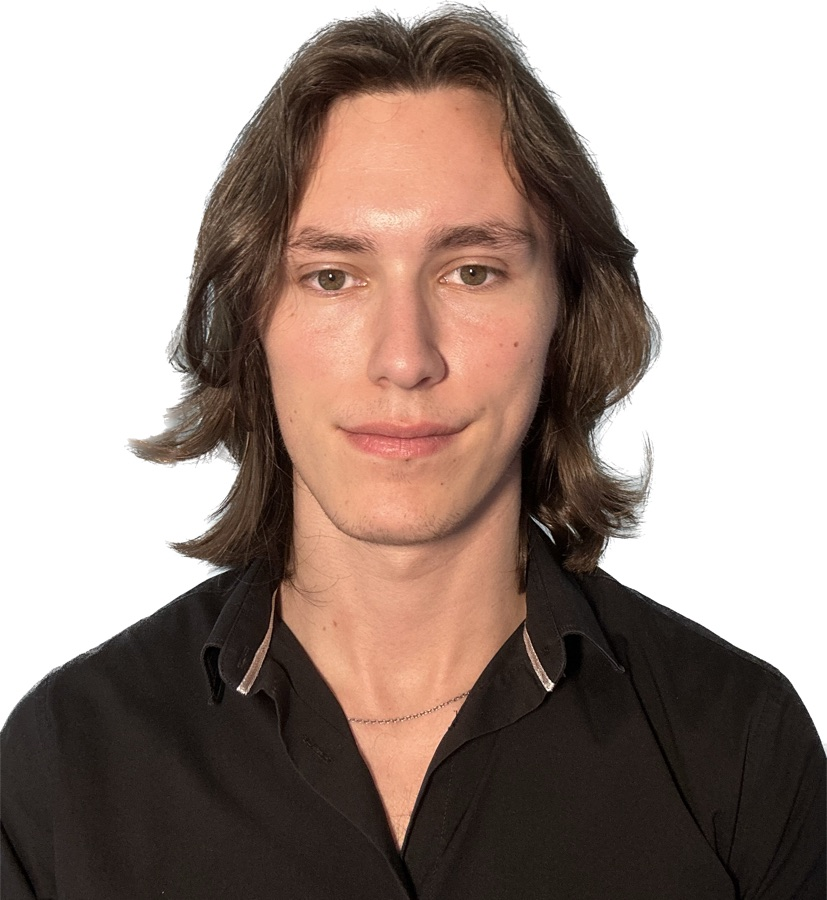
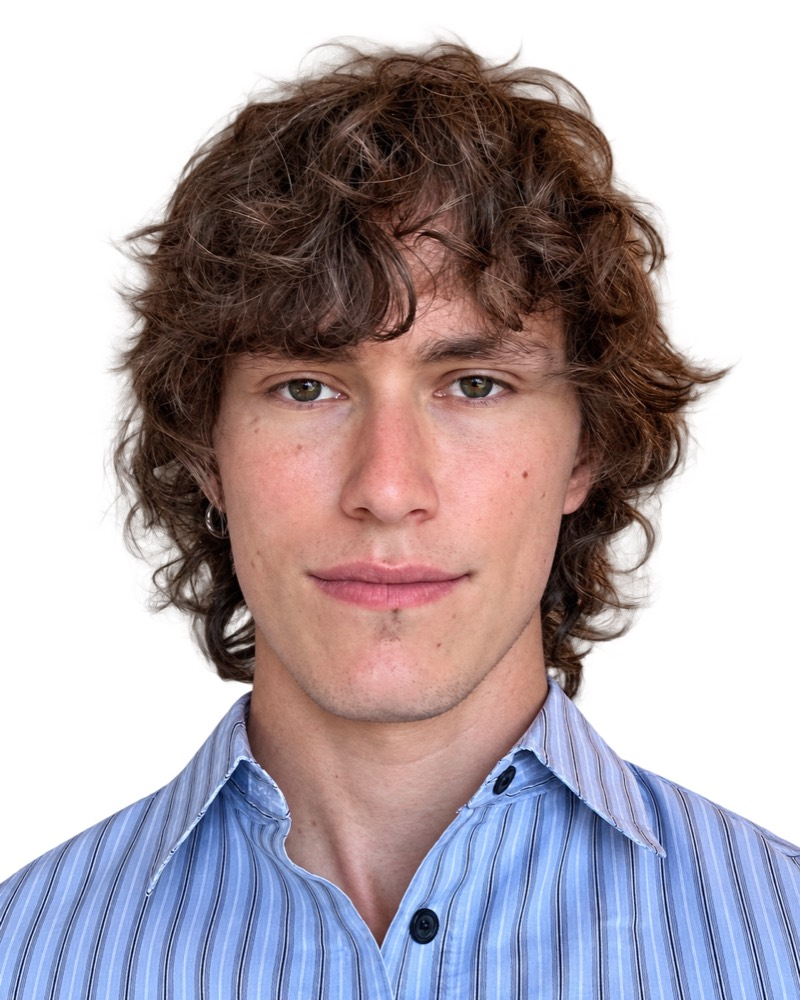
Nouveau portrait, et correction de sa deformation sur A propos
L'image d'A propos etait rendue en 123 sur 1020 pixels pour un fichier de
794 sur 900, soit sept fois trop haute. La feuille de style ne fixait que
la largeur : sans hauteur declaree, c'est l'attribut height du balisage qui
devenait la hauteur utilisee, et l'image y etait etiree. Le portrait de
l'accueil echappait au defaut pour la seule raison qu'il pose height: auto.
La regle est desormais la meme des deux cotes, et l'ecart de deformation
mesure vaut zero.

Les deux pages partagent maintenant un seul fichier au lieu de deux copies
au cadrage legerement different. L'original transparent est aplati sur du
blanc, ce qu'attend le mode multiply deja en place.

Le README dit ou vivent les images : trois dossiers portent les memes
sous-dossiers et un seul se modifie, le portrait n'etant dans aucun des
trois puisqu'il est importe par le code.

diff --git a/src/pages/About.jsx b/src/pages/About.jsx
@@ -1,6 +1,6 @@
 import styled from "styled-components";
 
-import portrait from "../assets/optimized/portrait-about.jpg";
+import portrait from "../assets/optimized/portrait.jpg";
 import { profile } from "../data/profile";
 import { skillGroups } from "../data/skills";
 import { pick, useLanguage, useTranslation } from "../i18n";
@@ -63,6 +63,11 @@ const Portrait = styled.figure`
 
   img {
     width: 100%;
+    /* Hauteur libre, sans quoi l'attribut height du balisage devient la
+       hauteur utilisée : l'image était alors étirée à 1020 px pour 123 px de
+       large, soit sept fois trop haute. C'est ce que fait déjà le portrait de
+       l'accueil, qui échappait au défaut pour cette seule raison. */
+    height: auto;
     mix-blend-mode: multiply;
   }
 
@@ -185,8 +190,8 @@ const About = () => {
               src={portrait}
               alt={`${t.about.portrait} ${profile.fullName}`}
               loading="lazy"
-              width="900"
-              height="1020"
+              width="800"
+              height="1000"
             />
           </div>
           <figcaption>

diff --git a/src/pages/Home.jsx b/src/pages/Home.jsx
@@ -931,8 +931,8 @@ const Home = () => {
                 <img
                   src={portrait}
                   alt={`${t.about.portrait} ${profile.fullName}`}
-                  width="900"
-                  height="980"
+                  width="800"
+                  height="1000"
                 />
               </PhotoSide>
           </Panel>

diff --git a/README.md b/README.md
@@ -114,6 +114,28 @@ src/
 └── index.jsx          Point d'entrée
 ```
 
+## Où vivent les images
+
+Trois dossiers portent les mêmes sous-dossiers, ce qui prête à confusion.
+Un seul se modifie :
+
+| Dossier | Rôle | Suivi par git |
+| --- | --- | --- |
+| `photos-source/` | Les originaux pleine résolution | non, ignoré |
+| `public/images/` | **Les versions web, celles du site** | oui |
+| `dist/images/` | Copie produite par le build | non, ignoré |
+
+Le portrait fait exception : il n'est dans aucun des trois. Il vit dans
+`src/assets/optimized/portrait.jpg`, parce qu'il est importé par le code et
+non chargé par une adresse. Vite lui donne alors un nom porteur d'empreinte,
+ce qui permet de le mettre en cache indéfiniment. Les deux pages qui
+l'affichent, l'accueil et À propos, partagent ce même fichier.
+
+Le portrait est détouré sur fond blanc et affiché en mode `multiply`, qui
+fait disparaître ce fond sur le papier cassé du site. Un fichier au fond
+transparent convient aussi : l'aplatir en JPEG le pose sur du blanc, ce
+qu'attend ce mode.
+
 ## Voyages et planisphère
 
 La fiche Passions « Voyages » lit `src/data/travel.js`, seule source de
